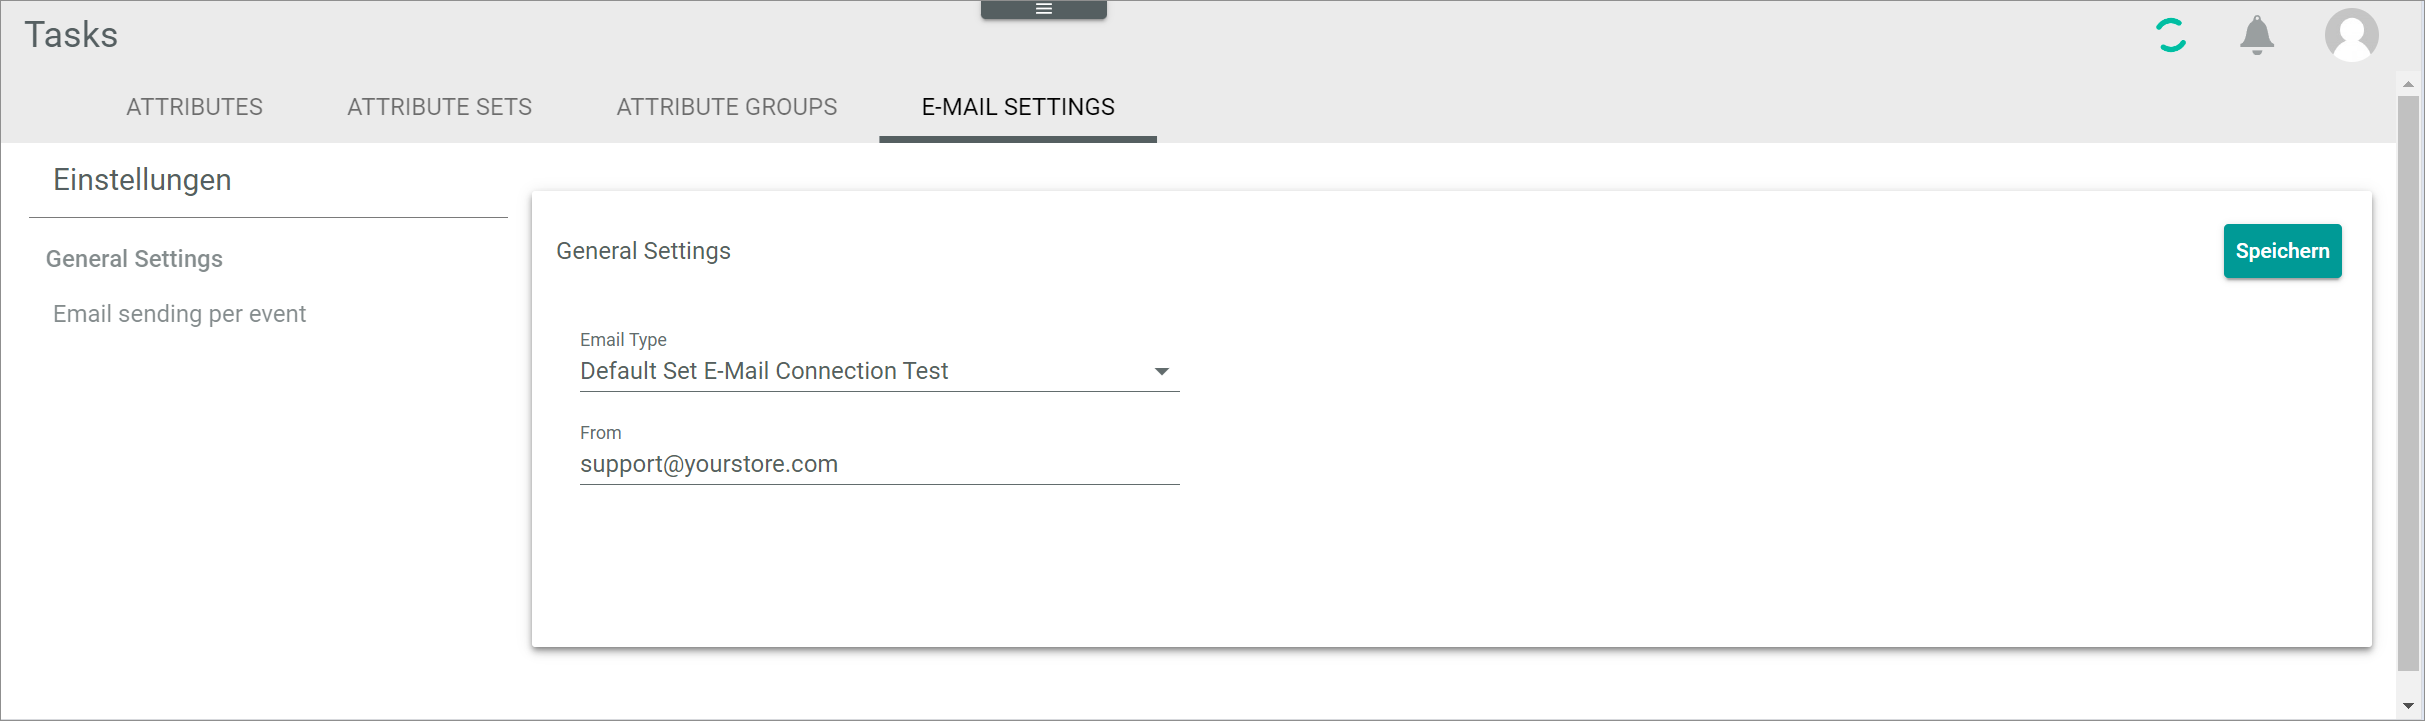
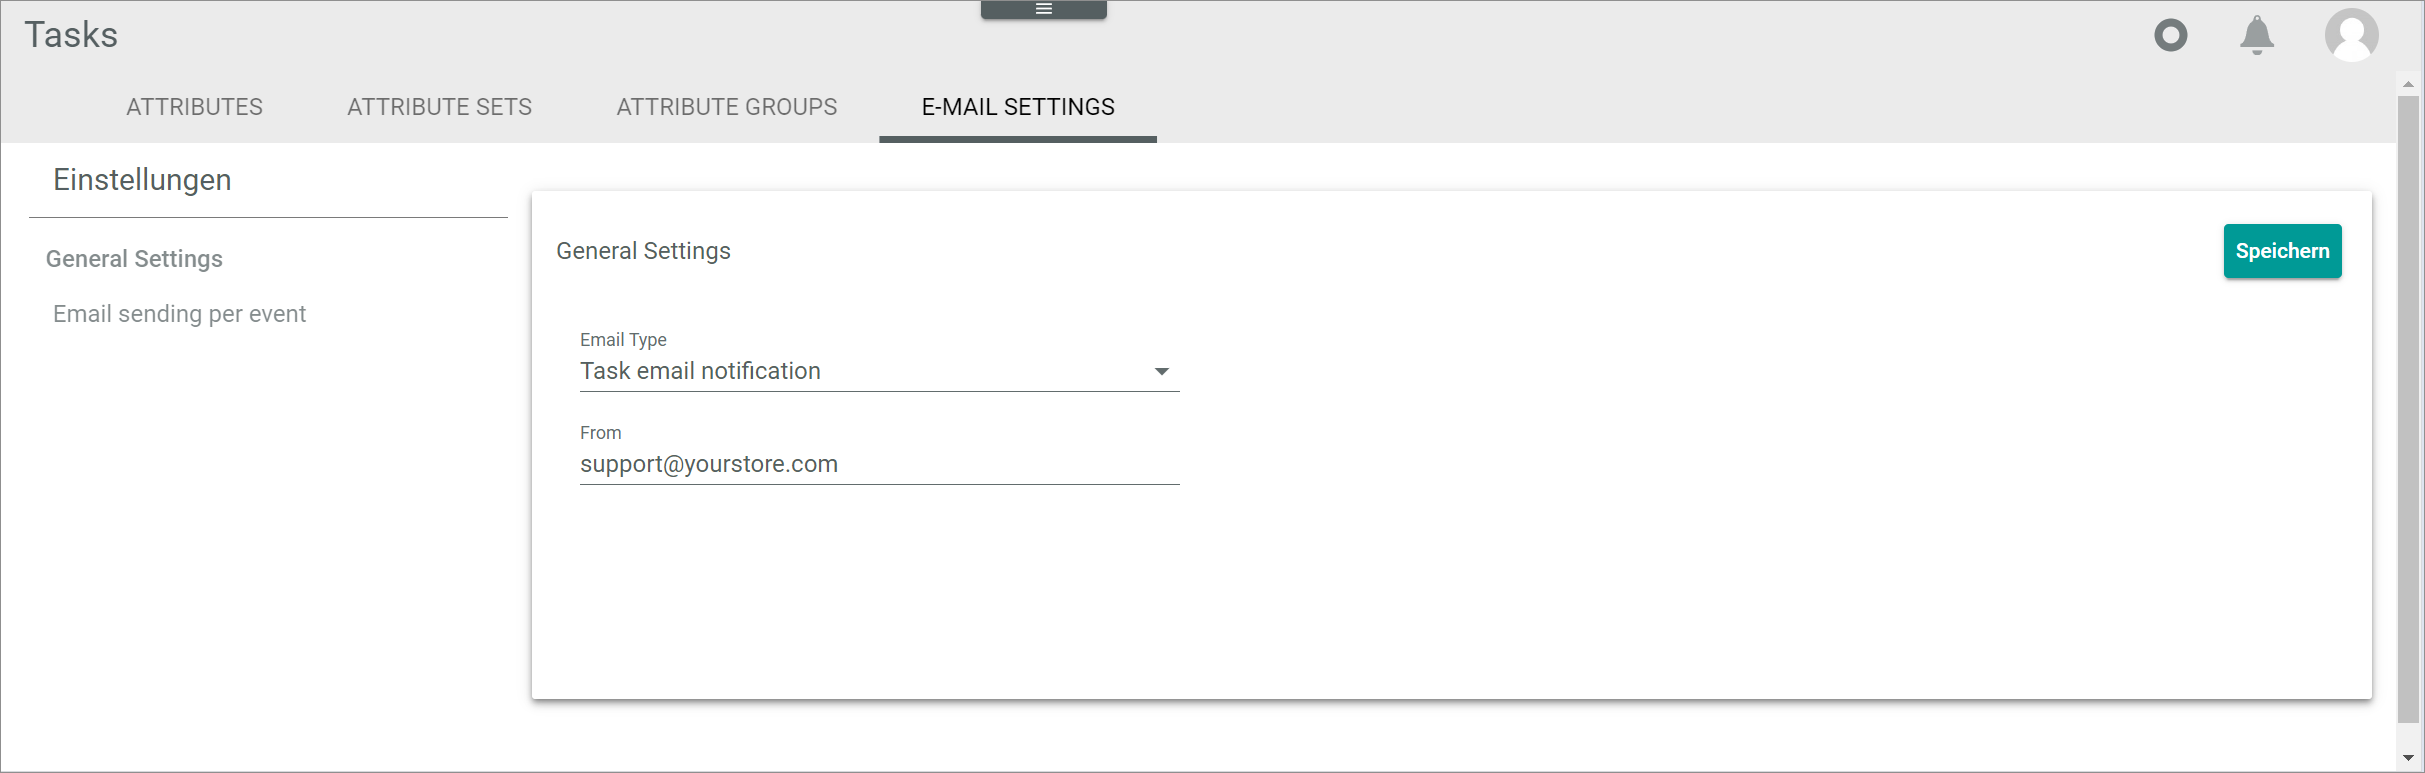
ACD-1101
Task email settings

diff --git a/Tasks/Integration/04_ManageEmailSettings.md b/Tasks/Integration/04_ManageEmailSettings.md
@@ -57,9 +57,17 @@ The *Email* module (1.6.1 version or higher) is installed.
 
 ## Create an email type in the email connection
 
-For every email connection configured, you can define an unlimited number of email types. 
+For every email connection configured, you can create different email types depending on the email purpose, for example, a payment reminder, a delivery status update, or an invoice.
 
-[comment]: <> (Wie kann man hier Emyil type sinnvoll und einfach definieren? Man kann nur einen für Tasks auswählen. Email type und Email Attributsatz sind verbunden. Wenn man ein Email type in Email-Modul erstellt, wird auch ein Email Attributsatz automatisch erstellt, aber nicht umgekehrt. Daher ist es schon eine Art von Email, aber in Tasks kann man nur ein Email-Type auswählen. Es ist einfach so programmiert laut JS. RS mit SA noch offen. Einige Email attributes set kommen von GDM, via driver, vermutlich, andere von Email, vermutlich manuell erstellt. S. auch https://actindo.atlassian.net/wiki/spaces/DEVELOPMEN/pages/370868232/Email+types)
+For every email type you create in the *Email* module, the corresponding attribute set is automatically created in the *DataHub* module. All email attribute sets contain by default a number of basic email attributes, such as *To*, *From*, *CC*, *Subject*, or *Body*. If necessary, you can add additional attributes to include other fields. 
+
+For every email type attribute set you can have different ETL mappings to determine which information is contained in a specific email. For example, in an invoice email you will need to include the invoice number, whereas in a payment reminder email you need to specify the bank details. The data contained in the different emails can be configured via ETL mapping in the *DataHub* module under *DataHub > ETL > Tab MAPPINGS*. For detailed information on ETL mappings, see [ETL mappings](../../DataHub/Operation/01_ManageETLMappings.md).
+
+Besides, you can further customize the email body in the *DataHub* module if desired under *DataHub > Settings > HTML templates*. For detailed information, see [Manage the HTML templates](../../DataHub/Operation/03_ManageHTMLTemplates.md) in the *DataHub* documentation. 
+
+[comment]: <> (Sebi: Kannst du bitte gegenprüfen, dass alles fachlich korrekt ist? Ich finde es zu lang; es gehört eher in Email-Modul Dokumentation, aber sie ist noch nicht vorhanden.)
+
+For the task email notification purposes, a simple email type containing the standard attributes is sufficient, as explained in the following procedure. 
 
 #### Prerequisites
 
